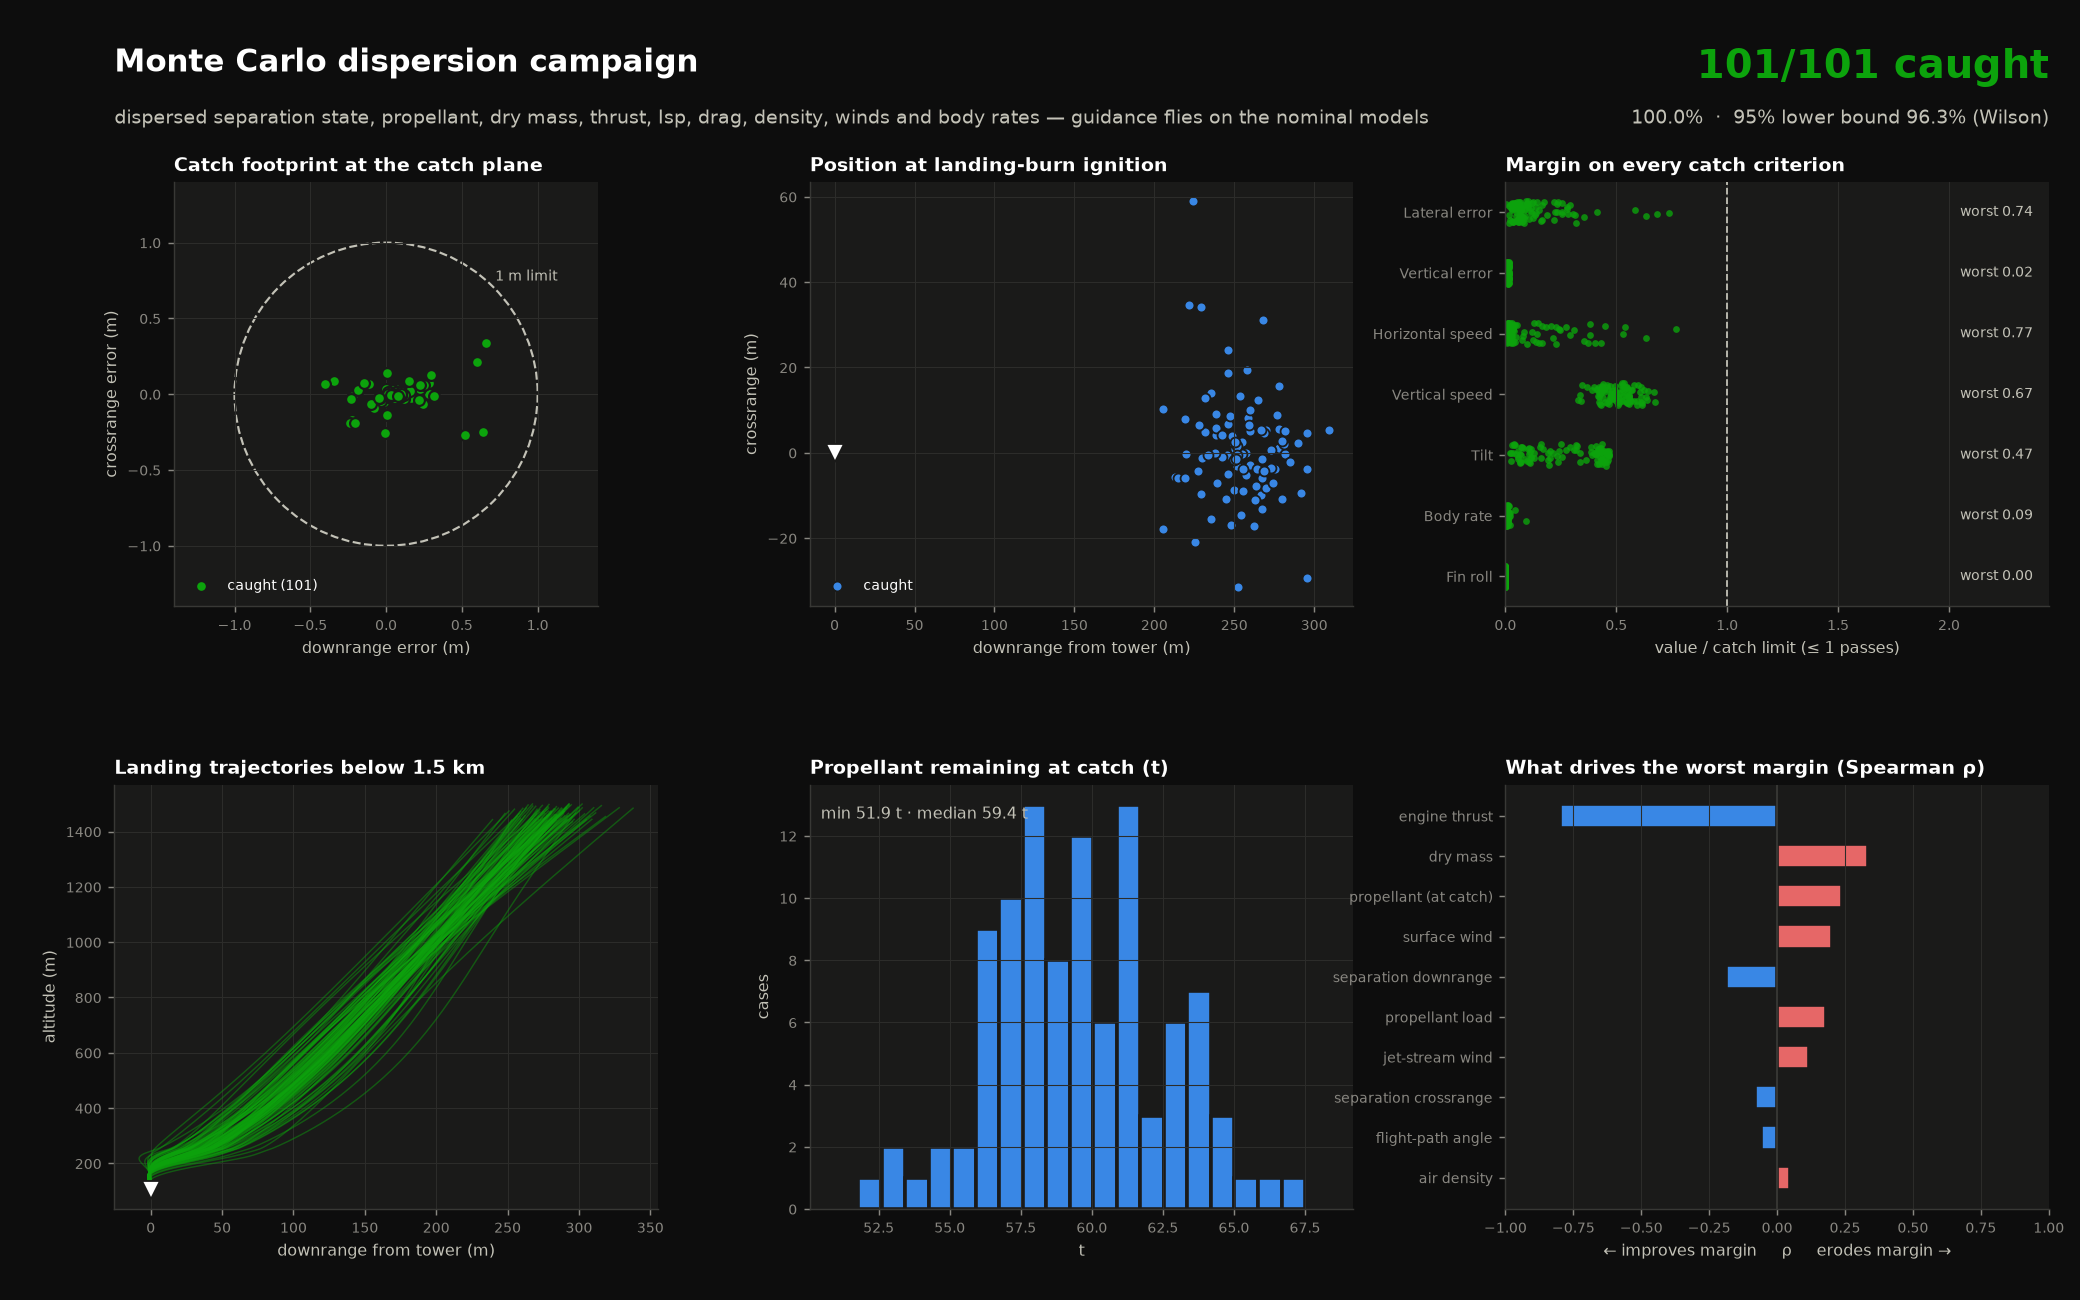
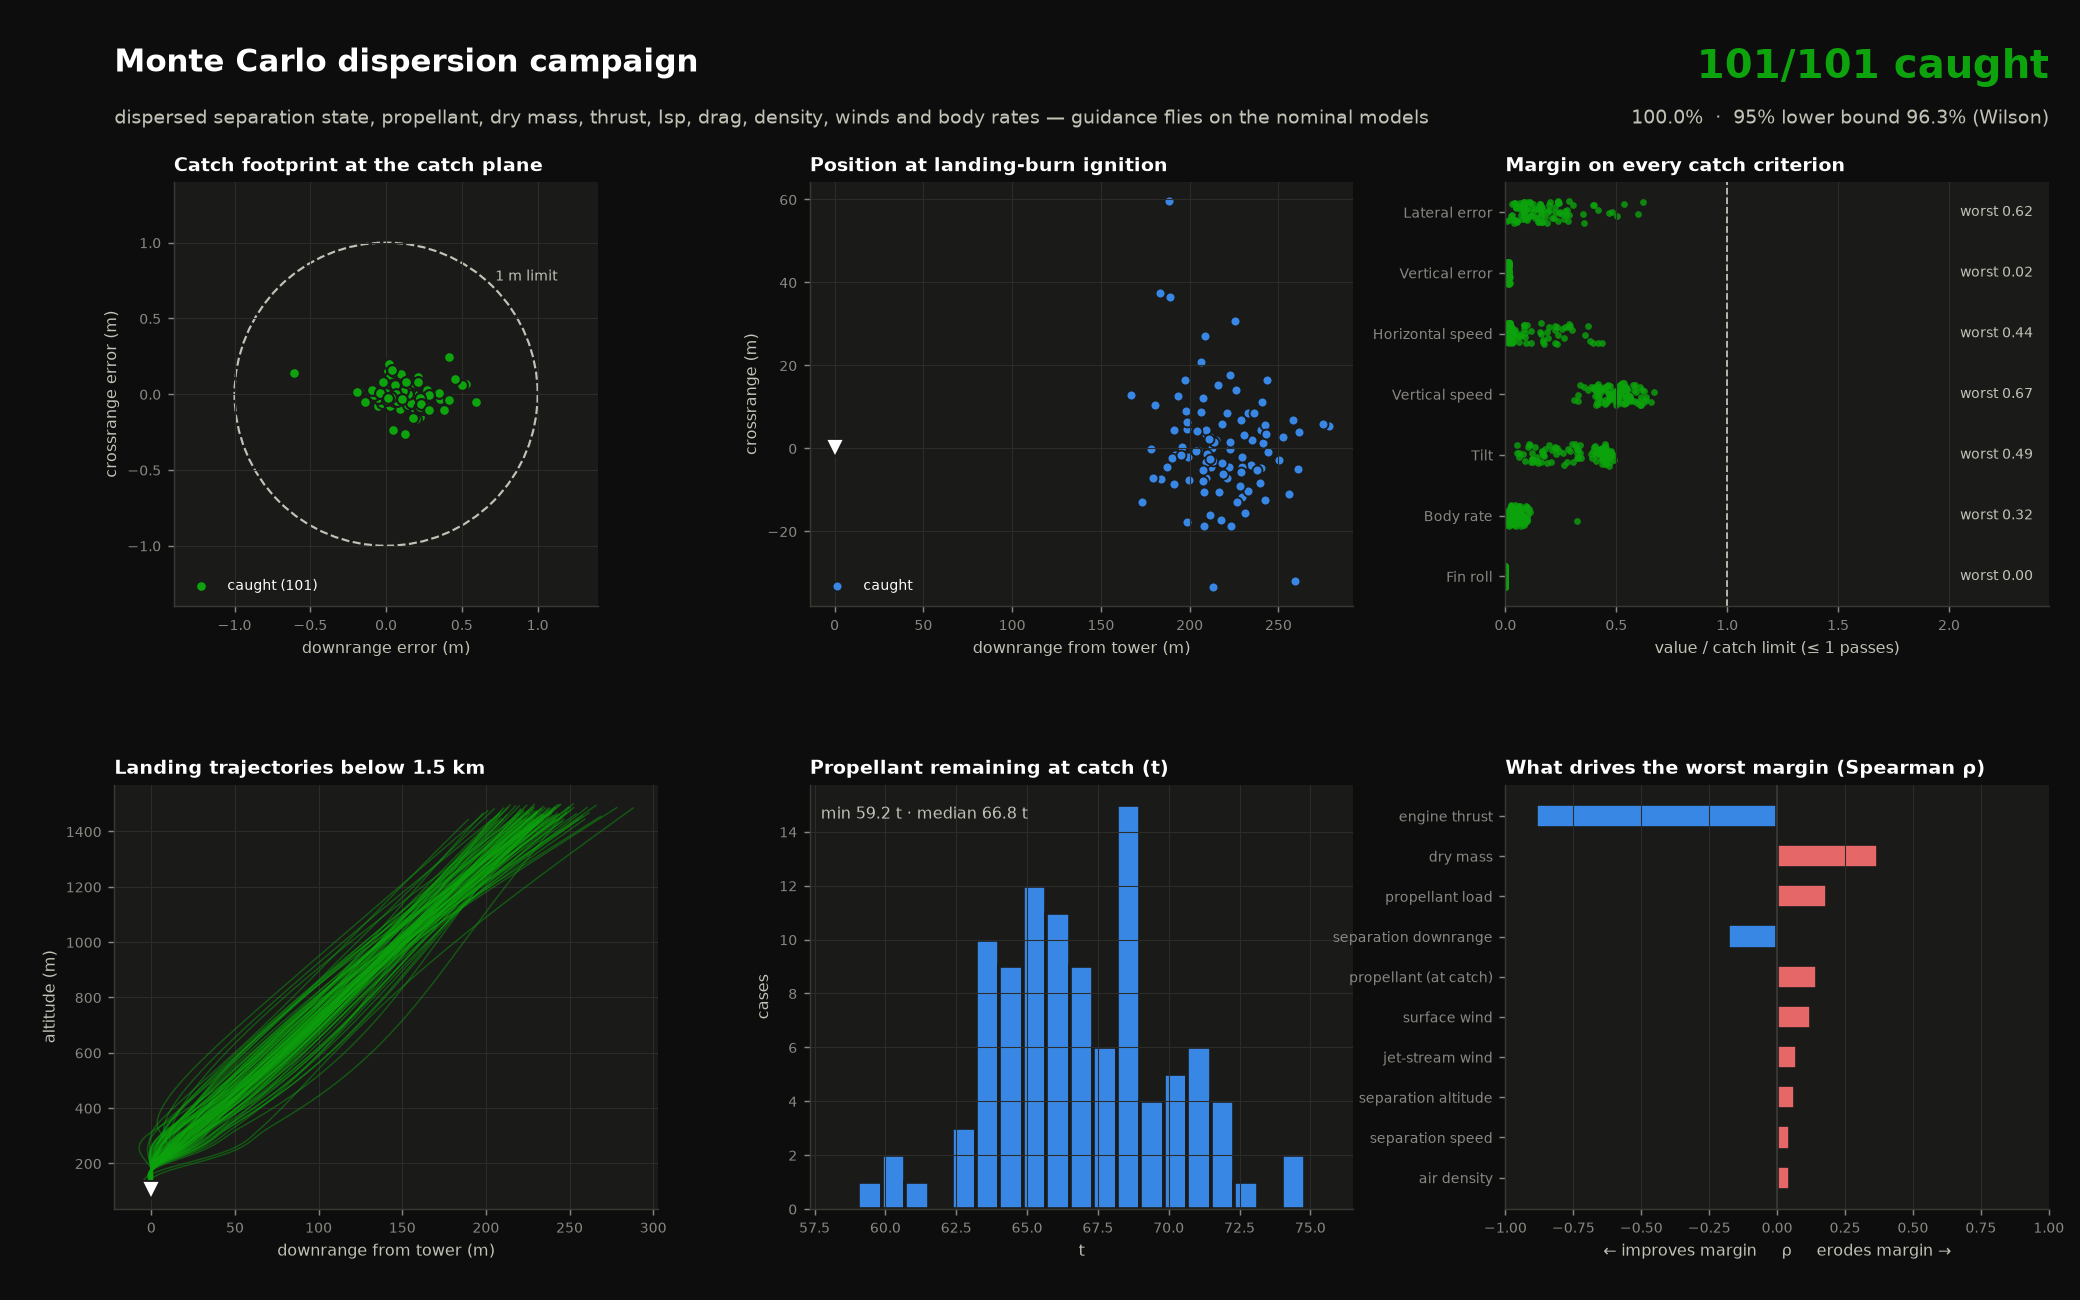
Monte Carlo 101/101 with the continuous-deceleration approach; refresh figures and README stats
Claude-Session: https://claude.ai/code/session_013jeXErEPwabzoZsJiSz7Uu

diff --git a/README.md b/README.md
@@ -34,25 +34,26 @@ python run_mission.py --montecarlo 100     # dispersed campaign (~25 min on 3-4 
 
 **101 of 101 cases caught** (100 dispersed + nominal, seed 42): 95% lower
 confidence bound on the catch rate 96.3% (Wilson). The same seed
-caught 97/101 one guidance iteration earlier, and the original guidance
+caught 81/101 with a first, shorter version of the continuous-deceleration
+final approach (item 11), 97/101 in an earlier guidance iteration, and the original guidance
 caught 1/41 under the same dispersions.
 
 ![Monte Carlo](figs/monte_carlo.png)
 
 | criterion | limit | median | 95th pct | worst |
 |---|---|---|---|---|
-| lateral error | 1 m | 0.08 m | 0.36 m | 0.74 m |
-| horizontal speed | 0.5 m/s | 0.01 m/s | 0.22 m/s | 0.39 m/s |
-| vertical speed | 1 m/s | 0.51 m/s | 0.62 m/s | 0.67 m/s |
-| tilt | 0.5° | 0.15 ° | 0.23 ° | 0.23 ° |
-| body rate | 1°/s | 0.006 °/s | 0.018 °/s | 0.094 °/s |
+| lateral error | 1 m | 0.15 m | 0.47 m | 0.62 m |
+| horizontal speed | 0.5 m/s | 0.02 m/s | 0.18 m/s | 0.22 m/s |
+| vertical speed | 1 m/s | 0.50 m/s | 0.62 m/s | 0.67 m/s |
+| tilt | 0.5° | 0.17 ° | 0.24 ° | 0.25 ° |
+| body rate | 1°/s | 0.04 °/s | 0.10 °/s | 0.32 °/s |
 | vertical error | 1 m | 0.01 m | 0.02 m | 0.02 m |
 | fin roll | 10° | 0.00 ° | 0.00 ° | 0.00 ° |
 
-Propellant at catch: 51.9 t minimum, 59.4 t median. The tightest
-margins are lateral error and horizontal speed in the strongest surface
-winds (~12 m/s). With the roll locked from the coast onward, fin roll and body rate at
-the catch are essentially zero.
+Propellant at catch: 59.2 t minimum, 66.8 t median. The tightest
+margins are lateral error in the strongest jet-stream and surface winds.
+With the roll locked from the coast onward, fin roll and body rate at
+the catch stay small (fin roll ~0°, body rate ≤ 0.32°/s).
 
 The catch criteria (all must pass, evaluated when the centre of mass reaches
 the 105 m catch altitude): lateral error ≤ 1 m, vertical error ≤ 1 m,
